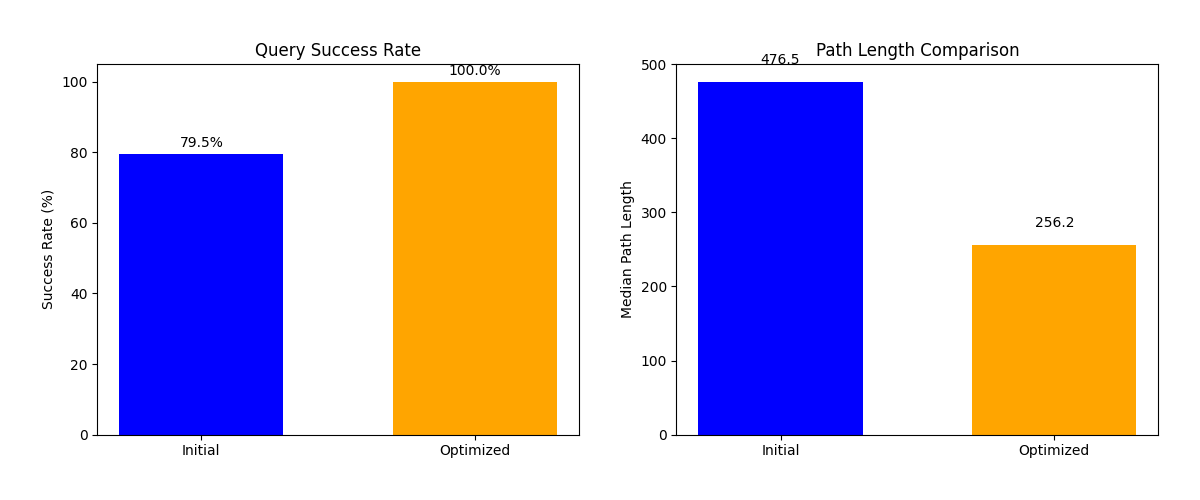
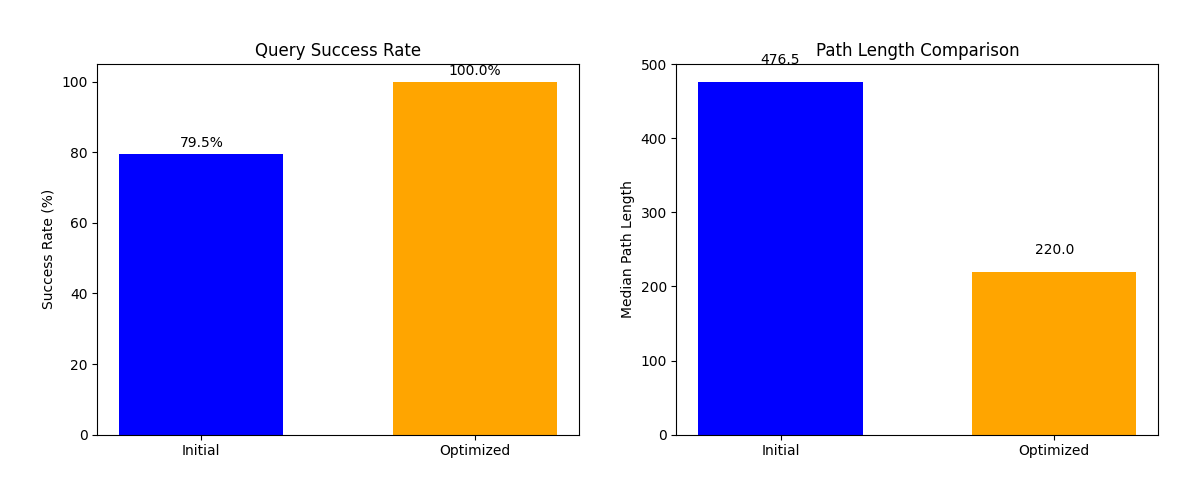
feat/doc: quick transit back to hub

Changed region(s): [[0.8017, 0.48, 0.9558, 0.57], [0.8633, 0.42, 0.8942, 0.45]]

diff --git a/bogoDB/candidate_submission/optimize_graph.py b/bogoDB/candidate_submission/optimize_graph.py
@@ -317,6 +317,107 @@ def build_figure_clover_graph(
     return graph
 
 
+def build_figure_clover_with_reentry_graph(
+    num_nodes: int,
+    query_counts: Counter,
+    seed: int = RANDOM_SEED,
+) -> Dict[str, Dict[str, float]]:
+    """
+    Figure-clover with a mid-loop re-entry edge from each clove back to the hub.
+
+    - Start with the three-loop clover.
+    - For each loop, add one extra edge from its midpoint node back to the center (hub).
+    - All weights remain 1.0.
+    """
+    # Build base clover
+    base = build_figure_clover_graph(num_nodes, query_counts, seed=seed)
+
+    # Reconstruct the same orders used by the base builder by re-running its assignment logic
+    # Note: To keep in sync, we repeat the circle construction deterministically using the same seed.
+    random.seed(seed)
+    all_nodes = list(range(num_nodes))
+    if query_counts:
+        max_freq = max(query_counts.values())
+        candidates = [n for n, c in query_counts.items() if c == max_freq]
+        center = min(candidates)
+    else:
+        center = 0
+
+    remaining = [n for n in all_nodes if n != center]
+    freq = {n: query_counts.get(n, 0) for n in remaining}
+    high_nodes = [n for n in remaining if freq[n] > 0]
+    high_nodes.sort(key=lambda n: (-freq[n], n))
+
+    base_size = len(remaining) // 3
+    sizes = [base_size, base_size, len(remaining) - 2 * base_size]
+    sets = [set(), set(), set()]
+    idx = 0
+    for n in high_nodes:
+        assigned = False
+        for _ in range(3):
+            si = (idx) % 3
+            if len(sets[si]) < sizes[si]:
+                sets[si].add(n)
+                idx = (si + 1)
+                assigned = True
+                break
+            idx += 1
+        if not assigned:
+            si = min(range(3), key=lambda i: len(sets[i]))
+            sets[si].add(n)
+
+    random.shuffle(remaining)
+    for n in remaining:
+        if any(n in s for s in sets):
+            continue
+        choices = [i for i in range(3) if len(sets[i]) < sizes[i]]
+        if choices:
+            si = random.choice(choices)
+        else:
+            si = min(range(3), key=lambda i: len(sets[i]))
+        sets[si].add(n)
+
+    circles = [list(s) for s in sets]
+
+    def spaced_order(circle_nodes: List[int]) -> List[int]:
+        N = len(circle_nodes)
+        if N == 0:
+            return []
+        local_high = [n for n in high_nodes if n in circle_nodes]
+        local_rest = [n for n in circle_nodes if n not in local_high]
+        order = [None] * N
+        if local_high:
+            positions = [int((i + 0.5) * N / len(local_high)) % N for i in range(len(local_high))]
+            used = set()
+            fixed = []
+            for p in positions:
+                while p in used:
+                    p = (p + 1) % N
+                used.add(p)
+                fixed.append(p)
+            for pos, node in zip(fixed, local_high):
+                order[pos] = node
+        random.shuffle(local_rest)
+        it = iter(local_rest)
+        for i in range(N):
+            if order[i] is None:
+                order[i] = next(it)
+        return order
+
+    orders = [spaced_order(c) for c in circles]
+
+    # Add one re-entry edge per loop from its midpoint back to center
+    for order in orders:
+        if not order:
+            continue
+        mid = len(order) // 2
+        src = order[mid]
+        # Outgoing edge from midpoint to center (weight 1.0)
+        base[str(src)][str(center)] = 1.0
+
+    return base
+
+
 def optimize_graph(
     initial_graph,
     queries: List[int],
@@ -325,12 +426,12 @@ def optimize_graph(
     max_edges_per_node=MAX_EDGES_PER_NODE,
 ):
     """Build the figure-clover topology (three loops) for testing."""
-    print("Starting figure-clover graph construction...")
+    print("Starting figure-clover (with re-entry) graph construction...")
 
     # Compute query frequencies
     counts = Counter(queries)
 
-    optimized_graph = build_figure_clover_graph(num_nodes, counts, seed=RANDOM_SEED)
+    optimized_graph = build_figure_clover_with_reentry_graph(num_nodes, counts, seed=RANDOM_SEED)
 
     # Verify constraints
     if not verify_constraints(optimized_graph, max_edges_per_node, max_total_edges):

diff --git a/solution.md b/solution.md
@@ -16,15 +16,17 @@ In hindsight this was not actually "very dumb". It (probabilistically) gurantees
 
 Since we have a whole three out-edges to work with, we should try making it more of a figure-three-leaf-clover type of thing. You may ask why I didn't do this the first time around... great question, I really can't answer that.
 
+##### 3: Ice In My (Xylem) Veins
+
+This one is just an experiment, but what if we add a loopback in the middle of each clove? Turns out it shaves a few percent.
+
 ### Implementation Details
+
+I'll only mention something if it's interesting enoughg to talk about beyond whatever I yap about up there.
 
 ##### 1: Naive Figure-8
 
 Although we use the top-1 node as the hub center, we still would like somewhat consistent hits for the rest of the small bunch in the exponential distribution, so we space those evenly around the two circles. Not too carefully though, it's more of a hit of salt or something.
-
-#### 2: Three Fifths of the Olympic Rings
-
-There's no new pizzazz here.
 
 ### Results
 
@@ -34,6 +36,8 @@ There's no new pizzazz here.
 | Whatever Terrible Shit You Gave Me   | 70.00%    | 463.0       | 119.53 |
 | 1: Naive Figure-8                    | 100.00%   | 264.0       | 203.14 |
 | 2: Three Fifths of the Olympic Rings | 100.00%   | 256.25      | 205.07 |
+| 3: Ice In My (Xylem) Veins           | 100.00%   | 220.0       | 215.24 |
+
 
 ### Trade-offs & Limitations
 
@@ -43,7 +47,9 @@ Two cloves vs. three cloves didn't really mean much, probably because the center
 
 ### Iteration Journey
 
-[Briefly describe your iteration process - what approaches you tried, what you learned, and how your solution evolved]
+I'll use this as more of a general thoughts thing.
+
+The three outdegree thing really sucks! I was going to model this after a slime mold / Tokyo metro map type of thing but Tokyo (and the slime mold I guess) has huge transfer stations (ex. Shinjuku station).
 
 ---
 
